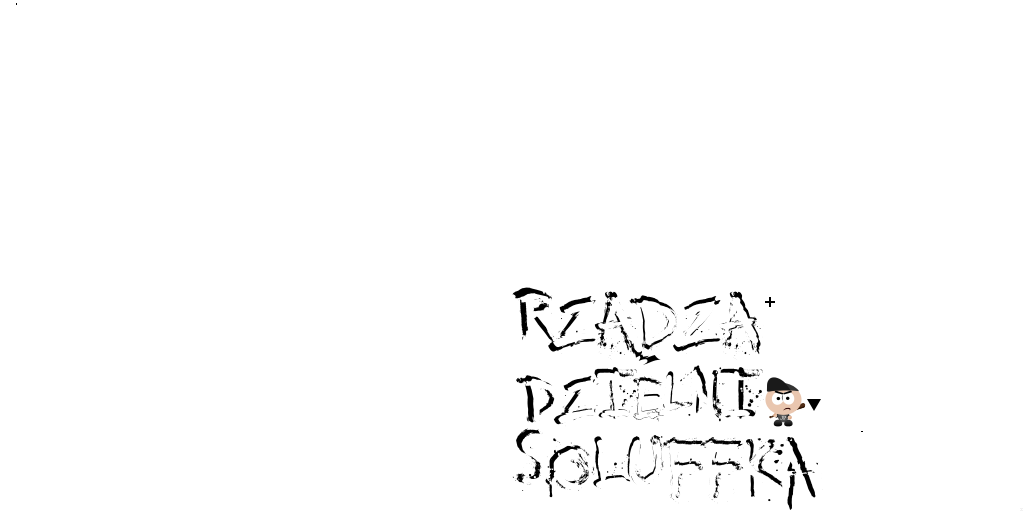
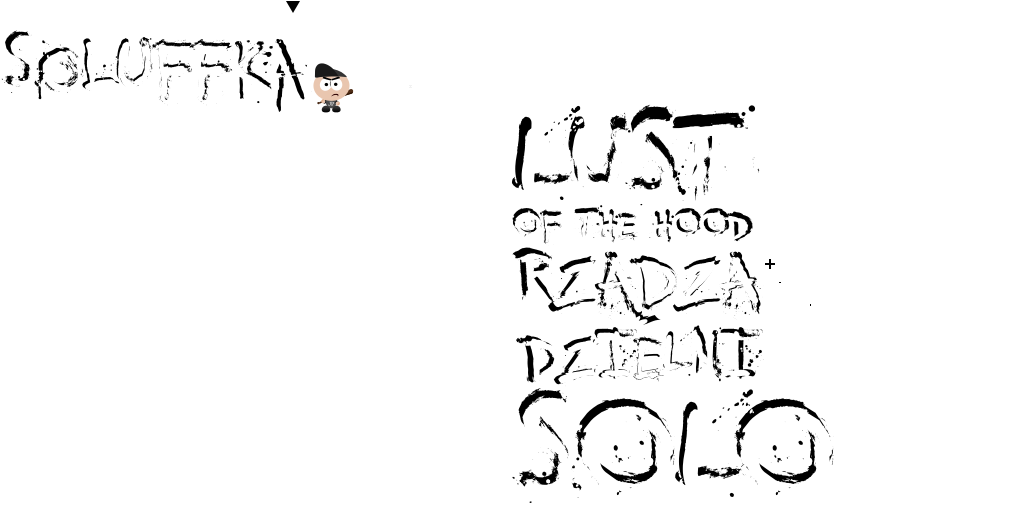
Added solo prompt.

diff --git a/core/src/main/java/com/github/czyzby/bj2016/controller/GameController.java b/core/src/main/java/com/github/czyzby/bj2016/controller/GameController.java
@@ -6,10 +6,12 @@ import com.badlogic.gdx.graphics.Color;
 import com.badlogic.gdx.graphics.Texture;
 import com.badlogic.gdx.graphics.g2d.Batch;
 import com.badlogic.gdx.graphics.g2d.Sprite;
+import com.badlogic.gdx.math.Interpolation;
 import com.badlogic.gdx.physics.box2d.Box2DDebugRenderer;
 import com.badlogic.gdx.scenes.scene2d.Action;
 import com.badlogic.gdx.scenes.scene2d.Stage;
 import com.badlogic.gdx.scenes.scene2d.actions.Actions;
+import com.badlogic.gdx.scenes.scene2d.ui.Image;
 import com.badlogic.gdx.scenes.scene2d.ui.Label;
 import com.badlogic.gdx.scenes.scene2d.ui.Table;
 import com.badlogic.gdx.utils.Array;
@@ -20,6 +22,7 @@ import com.github.czyzby.autumn.mvc.component.ui.controller.ViewRenderer;
 import com.github.czyzby.autumn.mvc.component.ui.controller.ViewResizer;
 import com.github.czyzby.autumn.mvc.component.ui.controller.impl.StandardViewShower;
 import com.github.czyzby.autumn.mvc.stereotype.View;
+import com.github.czyzby.autumn.mvc.stereotype.ViewStage;
 import com.github.czyzby.bj2016.configuration.Configuration;
 import com.github.czyzby.bj2016.controller.dialog.LossController;
 import com.github.czyzby.bj2016.controller.dialog.WinController;
@@ -44,12 +47,14 @@ public class GameController extends StandardViewShower implements ViewResizer, V
     private static final int BACKGROUND_X = (int) -(Box2DUtil.WIDTH / 2f),
             BACKGROUND_Y = (int) -(Box2DUtil.HEIGHT / 2f);
 
+    @ViewStage private Stage stage;
     @Inject private InterfaceService interfaceService;
     @Inject private Box2DService box2d;
     @Inject private GameAssetService gameAssetService;
     @LmlActor("player[0," + (Configuration.PLAYERS_AMOUNT - 1) + "]") Array<Table> playerViews;
     @LmlActor("points[0," + (Configuration.PLAYERS_AMOUNT - 1) + "]") Array<Label> pointLabels;
     @LmlActor("time") private Label timerLabel;
+    @LmlActor("solo") private Image soloPrompt;
     private final int[] cachedPoints = new int[Configuration.PLAYERS_AMOUNT];
     private final StringBuilder helperBuilder = new StringBuilder();
     private final Box2DDebugRenderer renderer = new Box2DDebugRenderer();
@@ -160,13 +165,14 @@ public class GameController extends StandardViewShower implements ViewResizer, V
     }
 
     private void updateTimer(final float delta) {
-        if (box2d.isSoloMode()) {
+        if (box2d.isSoloMode() || !running) {
             return;
         }
         timer += delta;
         Strings.clearBuilder(helperBuilder);
         if (timer >= GAME_LENGTH) {
             box2d.setSoloMode();
+            showSoloPrompt();
             helperBuilder.append("!!!:!!!");
         } else {
             final int minutes = (int) timer / 60;
@@ -176,6 +182,18 @@ public class GameController extends StandardViewShower implements ViewResizer, V
             printHour(seconds);
         }
         timerLabel.setText(helperBuilder);
+    }
+
+    private void showSoloPrompt() {
+        final float duration = 0.8f;
+        soloPrompt.addAction(Actions.sequence(Actions.moveTo(0f, 0f), Actions.alpha(0f), Actions.scaleTo(0f, 0f),
+                Actions.parallel(Actions.fadeIn(duration, Interpolation.fade),
+                        Actions.moveBy(stage.getWidth() * 2f / 7f, stage.getHeight() / 2f, duration,
+                                Interpolation.bounceIn),
+                        Actions.rotateBy(720f, duration, Interpolation.bounceIn),
+                        Actions.scaleTo(1f, 1f, duration, Interpolation.bounceIn)),
+                Actions.delay(0.5f), Actions.fadeOut(0.3f, Interpolation.fade), Actions.removeActor()));
+        stage.addActor(soloPrompt);
     }
 
     private void printHour(final int minutes) {

diff --git a/core/src/main/java/com/github/czyzby/bj2016/service/controls/impl/ComputerControl.java b/core/src/main/java/com/github/czyzby/bj2016/service/controls/impl/ComputerControl.java
@@ -45,14 +45,15 @@ public class ComputerControl extends AbstractControl {
         }
         if (timeSinceMoveChange >= UPDATES_TO_CHANGE_MOVEMENT) {
             timeSinceMoveChange -= UPDATES_TO_CHANGE_MOVEMENT;
-            final float x = target.getX() + random();
-            final float y = target.getY() + random();
+            final float x = target.getX() + random(box2d);
+            final float y = target.getY() + random(box2d);
             updateMovementWithAngle(MathUtils.atan2(y - bot.getY(), x - bot.getX()));
         }
     }
 
-    private static float random() {
-        return MathUtils.randomBoolean() ? MathUtils.random(10f) : -MathUtils.random(10f);
+    private static float random(final Box2DService box2d) {
+        final float random = MathUtils.random(box2d.isSoloMode() ? 2f : 10f);
+        return MathUtils.randomBoolean() ? random : -random;
     }
 
     @Override
